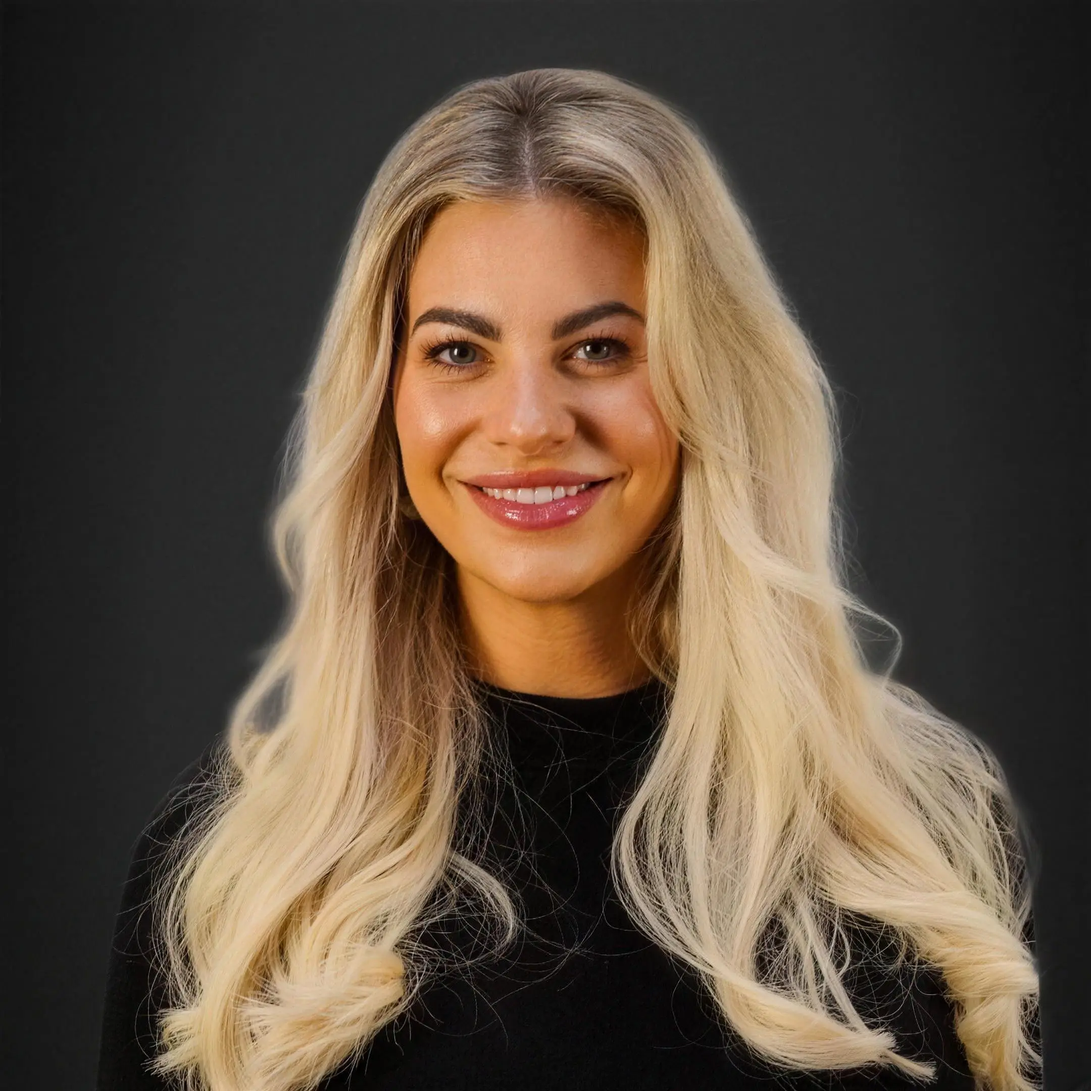
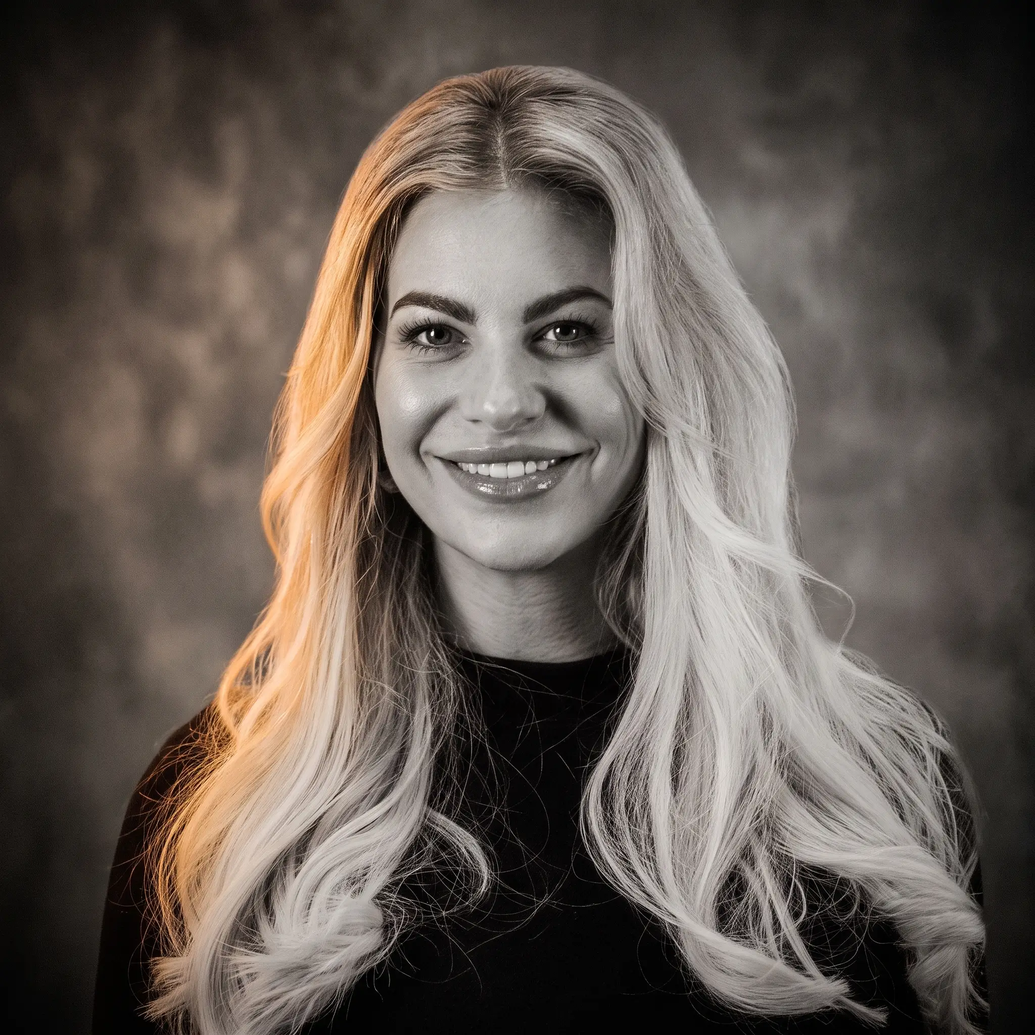
Starsha Green: match staff-photo treatment on her portrait
Re-grade the recovered portrait to the Zib team headshot set: moody
black-and-white, mottled canvas studio backdrop with vignette, warm
amber rim light camera-left. Done in Higgsfield from her real photo
with an existing treated team photo as the style reference.

Claude-Session: https://claude.ai/code/session_019Jp8ow7mRiiLTsfQ4t4Xpb

diff --git a/starsha-green.html b/starsha-green.html
@@ -84,7 +84,7 @@
       </div>
       <figure class="partner-portrait">
         <div class="portrait-frame">
-          <img src="/assets/starsha-green-header.webp" alt="Starsha Green, Zib Digital Partner and Growth Specialist" width="2160" height="2160" loading="eager" fetchpriority="high" decoding="async" />
+          <img src="/assets/starsha-green-header.webp" alt="Starsha Green, Zib Digital Partner and Growth Specialist" width="2048" height="2048" loading="eager" fetchpriority="high" decoding="async" />
         </div>
         <figcaption class="partner-portrait-cap mono">
           <span>Starsha Green</span>
